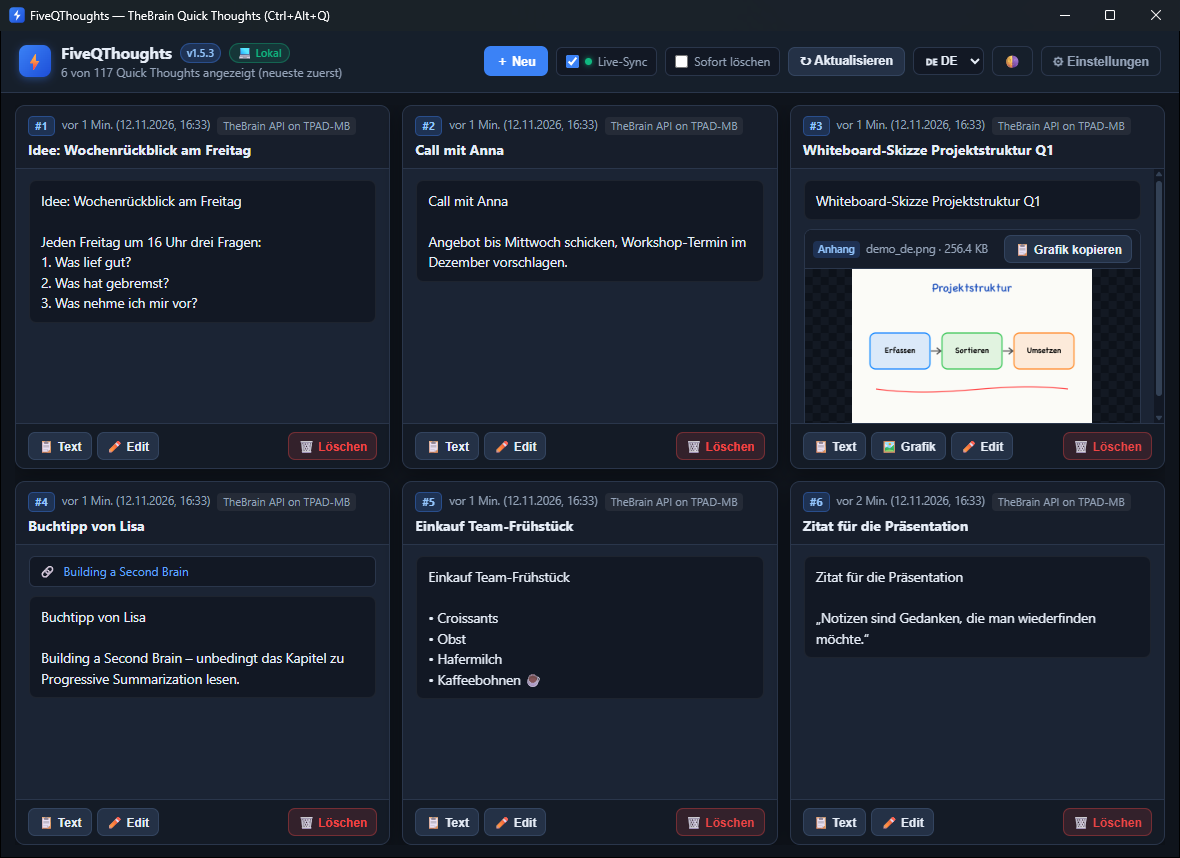
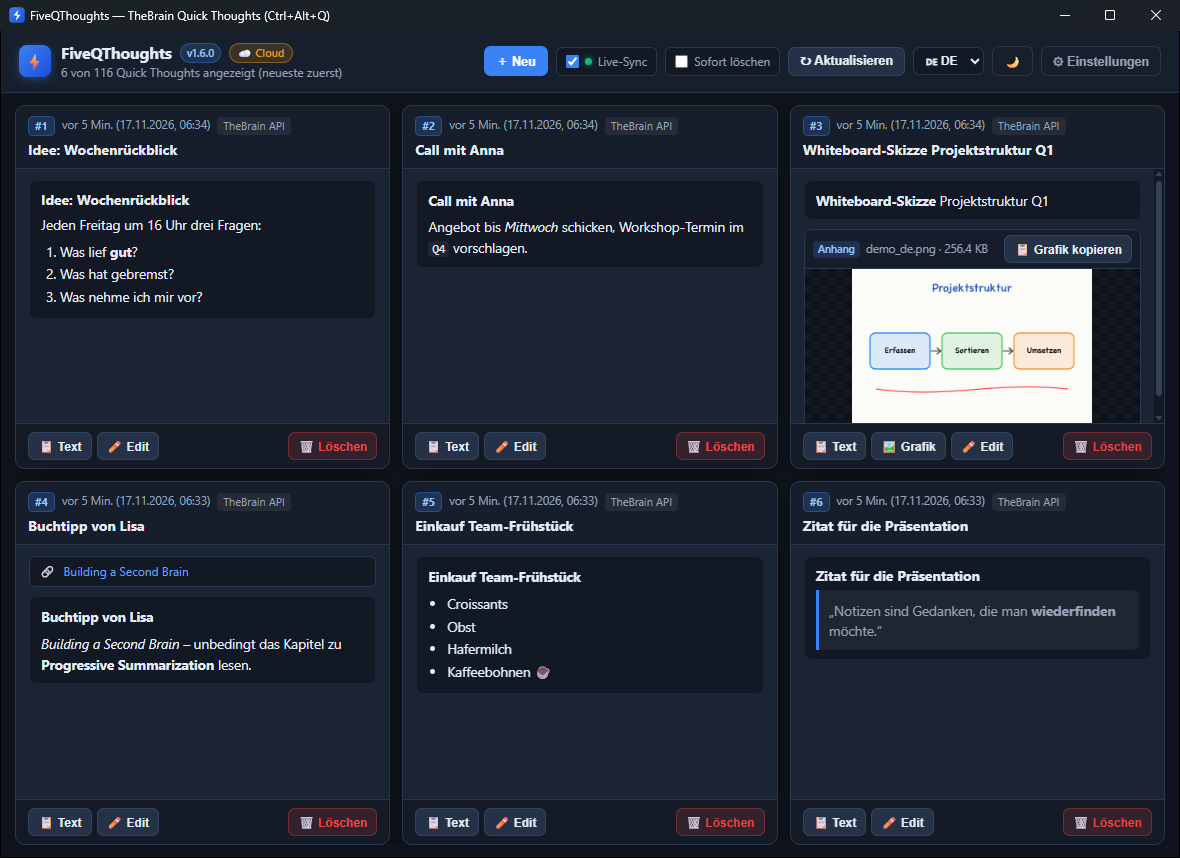
updated screenshots zu v1.6.0, samples use markdown

diff --git a/tools/seed_demo.py b/tools/seed_demo.py
@@ -23,22 +23,22 @@ HERE = Path(__file__).resolve().parent
 # Oldest first: the last entry ends up at the top of the list.
 DEMO = {
     "de": [
-        {"markdown": "Zitat für die Präsentation\n\n„Notizen sind Gedanken, die man wiederfinden möchte.“"},
-        {"markdown": "Einkauf Team-Frühstück\n\n• Croissants\n• Obst\n• Hafermilch\n• Kaffeebohnen ☕"},
-        {"markdown": "Buchtipp von Lisa\n\nBuilding a Second Brain – unbedingt das Kapitel zu Progressive Summarization lesen.",
+        {"markdown": "### Zitat für die Präsentation\n\n> „Notizen sind Gedanken, die man **wiederfinden** möchte.“"},
+        {"markdown": "**Einkauf Team-Frühstück**\n\n- Croissants\n- Obst\n- Hafermilch\n- Kaffeebohnen ☕"},
+        {"markdown": "**Buchtipp von Lisa**\n\n*Building a Second Brain* – unbedingt das Kapitel zu **Progressive Summarization** lesen.",
          "links": [{"title": "Building a Second Brain", "url": "https://www.buildingasecondbrain.com"}]},
-        {"markdown": "Whiteboard-Skizze Projektstruktur Q1", "image": True},
-        {"markdown": "Call mit Anna\n\nAngebot bis Mittwoch schicken, Workshop-Termin im Dezember vorschlagen."},
-        {"markdown": "Idee: Wochenrückblick am Freitag\n\nJeden Freitag um 16 Uhr drei Fragen:\n1. Was lief gut?\n2. Was hat gebremst?\n3. Was nehme ich mir vor?"},
+        {"markdown": "**Whiteboard-Skizze** Projektstruktur Q1", "image": True},
+        {"markdown": "**Call mit Anna**\n\nAngebot bis *Mittwoch* schicken, Workshop-Termin im `Q4` vorschlagen."},
+        {"markdown": "### Idee: Wochenrückblick\n\nJeden Freitag um 16 Uhr drei Fragen:\n1. Was lief **gut**?\n2. Was hat gebremst?\n3. Was nehme ich mir vor?"},
     ],
     "en": [
-        {"markdown": "Quote for the presentation\n\n“Notes are thoughts you want to find again.”"},
-        {"markdown": "Team breakfast shopping\n\n• Croissants\n• Fruit\n• Oat milk\n• Coffee beans ☕"},
-        {"markdown": "Book tip from Lisa\n\nBuilding a Second Brain – make sure to read the chapter on Progressive Summarization.",
+        {"markdown": "### Quote for the presentation\n\n> “Notes are thoughts you want to **find again**.”"},
+        {"markdown": "**Team breakfast shopping**\n\n- Croissants\n- Fruit\n- Oat milk\n- Coffee beans ☕"},
+        {"markdown": "**Book tip from Lisa**\n\n*Building a Second Brain* – make sure to read the chapter on **Progressive Summarization**.",
          "links": [{"title": "Building a Second Brain", "url": "https://www.buildingasecondbrain.com"}]},
-        {"markdown": "Whiteboard sketch: project structure Q1", "image": True},
-        {"markdown": "Call with Anna\n\nSend the quote by Wednesday, suggest a workshop date in December."},
-        {"markdown": "Idea: weekly review on Friday\n\nEvery Friday at 4 pm, three questions:\n1. What went well?\n2. What slowed me down?\n3. What's next?"},
+        {"markdown": "**Whiteboard sketch:** project structure Q1", "image": True},
+        {"markdown": "**Call with Anna**\n\nSend the quote by *Wednesday*, suggest a workshop date in `Q4`."},
+        {"markdown": "### Idea: weekly review\n\nEvery Friday at 4 pm, three questions:\n1. What went **well**?\n2. What slowed me down?\n3. What's next?"},
     ],
 }
 
